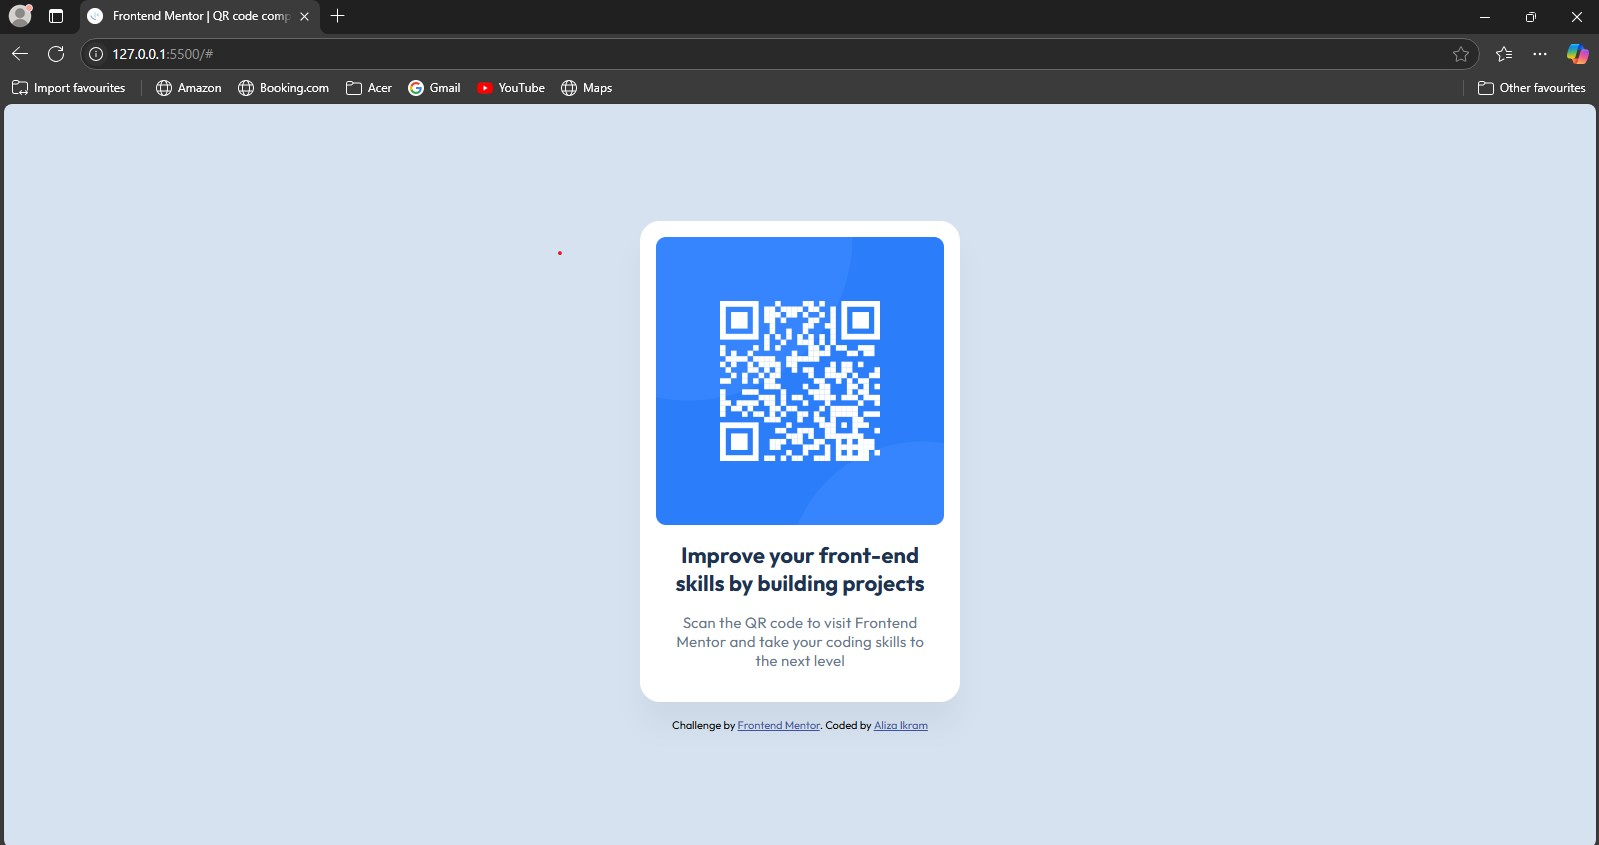
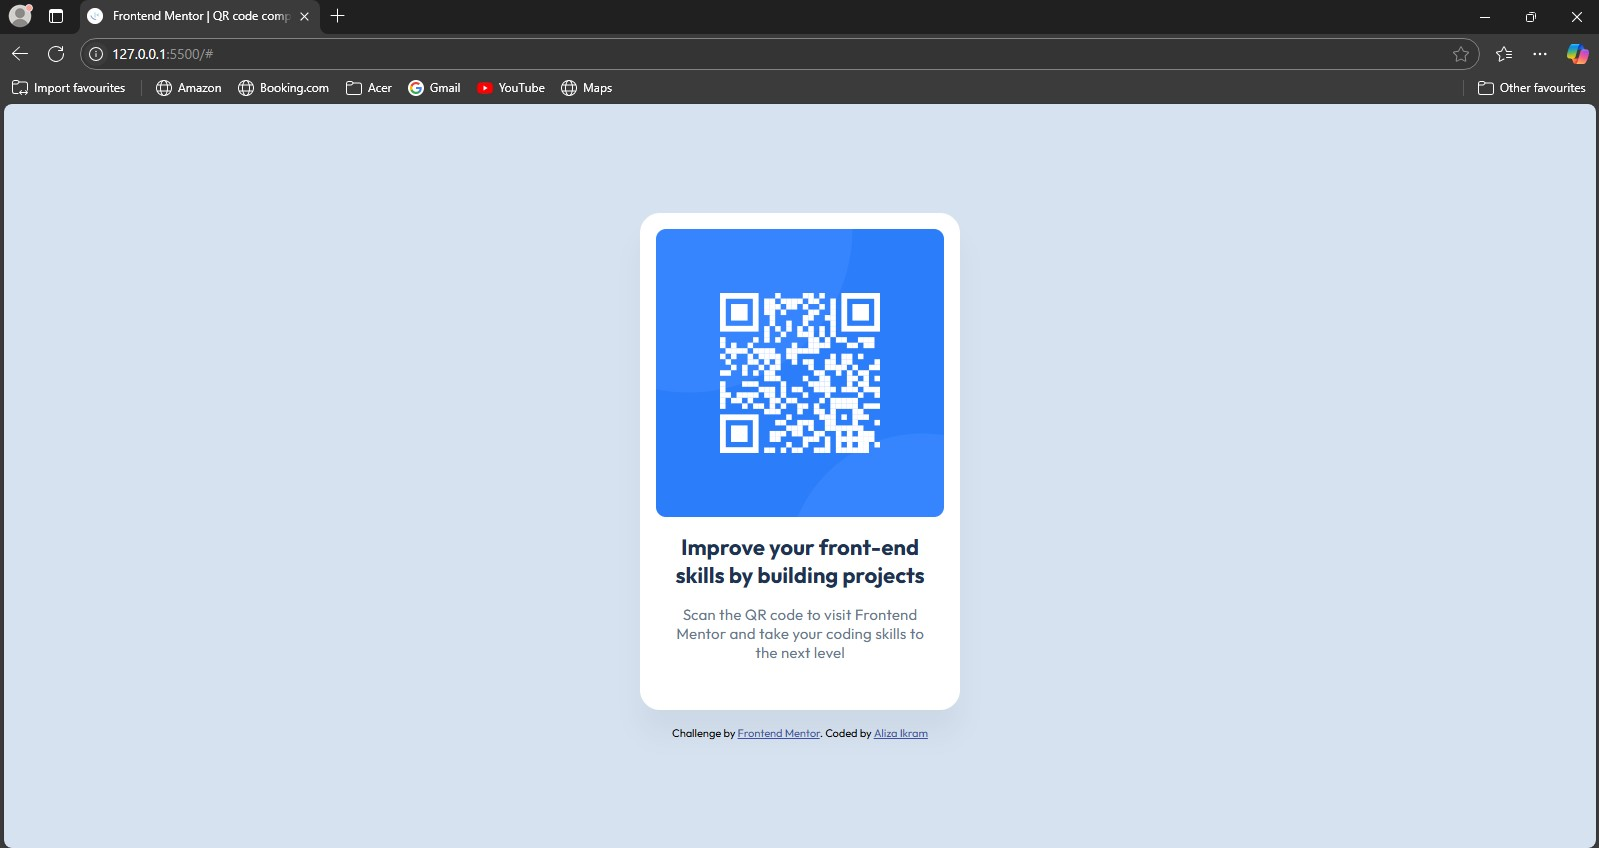
Change qr-description margin bottom

diff --git a/style.css b/style.css
@@ -60,7 +60,7 @@ body {
     line-height: 19px;
     letter-spacing: 0.19px;
     padding: 0 1rem 0 1rem;
-    margin-bottom: 1rem;
+    margin-bottom: 2rem;
 }
 
 

diff --git a/README.md b/README.md
@@ -4,18 +4,14 @@ This is a solution to the [QR code component challenge on Frontend Mentor](https
 
 ## Table of contents
 
-- [Overview](#overview)
+  - [Overview](#overview)
   - [Screenshot](#screenshot)
   - [Links](#links)
-- [My process](#my-process)
   - [Built with](#built-with)
   - [What I learned](#what-i-learned)
   - [Continued development](#continued-development)
   - [Useful resources](#useful-resources)
-- [Author](#author)
-- [Acknowledgments](#acknowledgments)
-
-**Note: Delete this note and update the table of contents based on what sections you keep.**
+  - [Author](#author)
 
 ## Overview
 
@@ -31,8 +27,6 @@ This project showcases a custom-designed QR code created using HTML and CSS. It 
 
 - Solution URL: [Add solution URL here](https://your-solution-url.com)
 - Live Site URL: [Add live site URL here](https://your-live-site-url.com)
-
-## My process
 
 ### Built with
 
